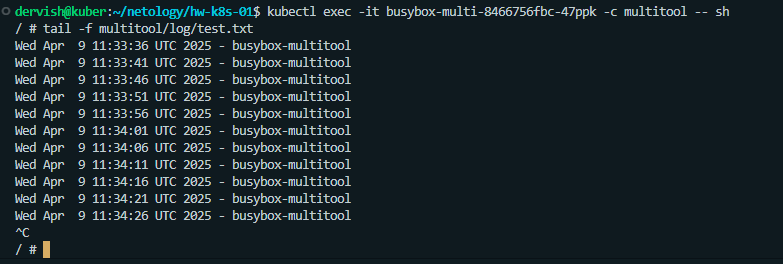
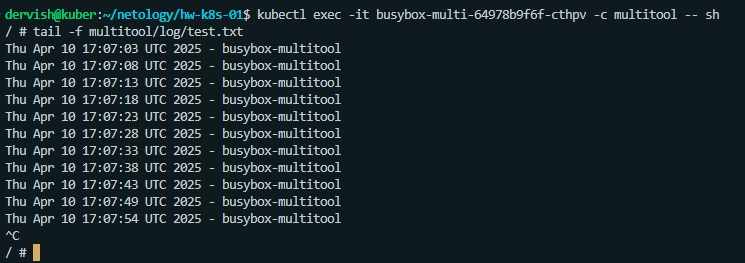
task1 done

Changed region(s): [[0.0, 0.0, 0.9879, 0.9125], [0.0, 0.9125, 0.0617, 1.0]]

diff --git a/README.md b/README.md
@@ -1,8 +1,8 @@
-# Домашнее задание к занятию «Хранение в K8s. Часть 1»
+# Домашнее задание к занятию «Хранение в K8s. Часть 2»
 
 ## Цель задания
 
-В тестовой среде Kubernetes нужно обеспечить обмен файлами между контейнерам пода и доступ к логам ноды.
+В тестовой среде Kubernetes нужно создать PV и продемострировать запись и хранение файлов.
 
 ## Чеклист готовности к домашнему заданию
 
@@ -12,22 +12,37 @@
     Редактор YAML-файлов с подключённым Git-репозиторием.
 
 
-## Задание 1. Создать Deployment приложения, состоящего из двух контейнеров и обменивающихся данными.
+## Задание 1. Создать Deployment приложения, использующего локальный PV, созданный вручную.
 
 Создать Deployment приложения, состоящего из контейнеров busybox и multitool.
-Сделать так, чтобы busybox писал каждые пять секунд в некий файл в общей директории.
-Обеспечить возможность чтения файла контейнером multitool.
+Создать PV и PVC для подключения папки на локальной ноде, которая будет использована в поде.
 
 ![deploy](./task1/deploy.png)
 ![write](./task1/write.png)
 
-Продемонстрировать, что multitool может читать файл, который периодически обновляется.
+Продемонстрировать, что multitool может читать файл, в который busybox пишет каждые пять секунд в общей директории.
 
 ![read](./task1/read.png)
 
-Предоставить манифесты Deployment в решении, а также скриншоты или вывод команды из п. 4.
+Удалить Deployment и PVC. Продемонстрировать, что после этого произошло с PV. Пояснить, почему.
 
->Ответ: [deploy.yml](./deploy.yml)
+![deldep](./task1/deldep.png)
+
+>Ответ: PV не привязывается к подам, нодам и кластеру, поэтому при их удалении он (PV) не удаляется и данные в нем сохраняются.
+
+![pv](./task1/pv.png)
+
+Продемонстрировать, что файл сохранился на локальном диске ноды. Удалить PV. Продемонстрировать что произошло с файлом после удаления PV. Пояснить, почему.
+
+![file](./task1/file.png)
+![delpv](./task1/delpv.png)
+![file](./task1/file.png)
+
+>Ответ: поскольку PV ReclaimPolicy имела значение Retain после удаления PV ресурсы автоматически не удалились
+
+Предоставить манифесты, а также скриншоты или вывод необходимых команд.
+
+>Ответ: [pv.yml](./pv.yml) [pvc.yml](./pvc.yml) [deploy.yml](./deploy.yml)
 
 
 ## Задание 2. Создать DaemonSet приложения, которое может прочитать логи ноды.
